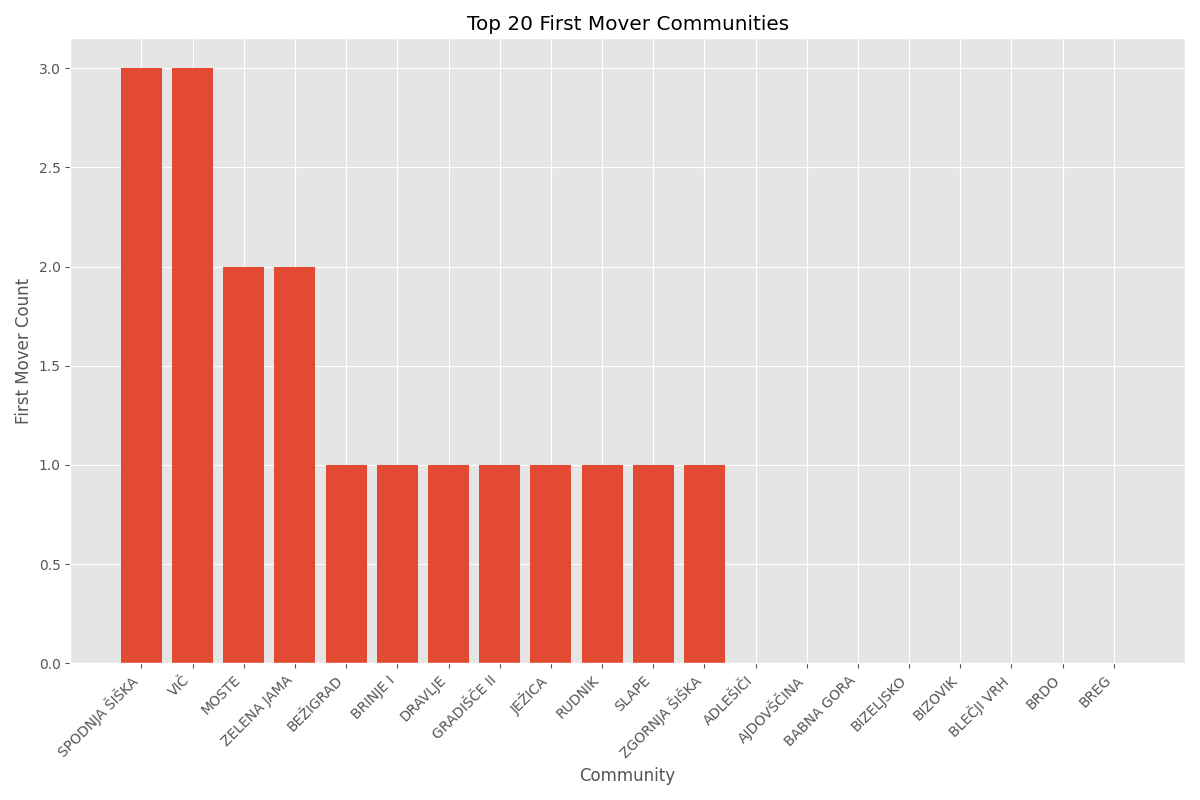
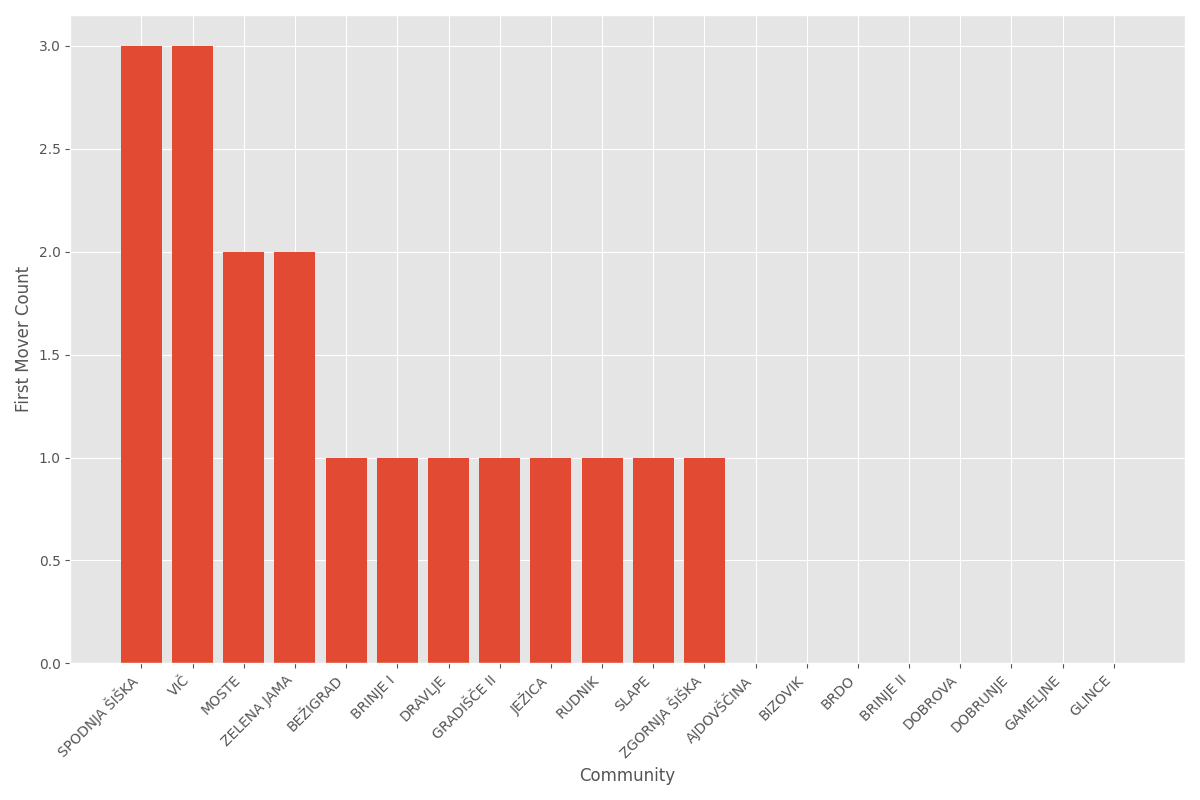
fix

diff --git a/network_analysis.py b/network_analysis.py
@@ -107,197 +107,6 @@ def first_movers(changes):
             count[mover] += 1
     return count
 
-
-def spatial_lag_model(pivot, G):
-    """
-    Fit Spatial Lag Models for each year transition to analyze spatial dependencies
-    """
-    # Convert NetworkX graph to libpysal weights
-    adj_matrix = nx.to_numpy_array(G, nodelist=pivot.index)
-    
-    # Create neighbor dictionary for libpysal
-    neighbors = {}
-    for i in range(len(pivot.index)):
-        neighbors[i] = list(np.where(adj_matrix[i] > 0)[0])
-    
-    # Create weights object
-    w = W(neighbors)
-    w.transform = 'r'  # Row standardization
-    
-    years = sorted(pivot.columns)
-    slm_results = {}
-    
-    for i in range(len(years) - 1):
-        y_current = years[i]
-        y_next = years[i + 1]
-        
-        # Prepare data - remove NaN values
-        data_current = pivot[y_current].fillna(0)
-        data_next = pivot[y_next].fillna(0)
-        
-        # Create aligned arrays - only use observations without NaN in either year
-        valid_mask = ~(pd.isna(pivot[y_current]) | pd.isna(pivot[y_next]))
-        
-        if valid_mask.sum() < 10:  # Need minimum observations
-            print(f"Insufficient valid observations for {y_current}-{y_next}: {valid_mask.sum()}")
-            continue
-            
-        # Get valid data
-        valid_indices = np.where(valid_mask)[0]
-        y_dep = data_next.iloc[valid_indices].values.reshape(-1, 1)
-        x_indep = data_current.iloc[valid_indices].values.reshape(-1, 1)
-        
-        # Create filtered weights matrix for valid observations only
-        w_filtered_neighbors = {}
-        for new_i, orig_i in enumerate(valid_indices):
-            # Find neighbors of original observation that are also in valid set
-            orig_neighbors = neighbors[orig_i]
-            valid_neighbors = []
-            for neighbor in orig_neighbors:
-                if neighbor in valid_indices:
-                    # Map to new index in filtered dataset
-                    new_neighbor_idx = np.where(valid_indices == neighbor)[0]
-                    if len(new_neighbor_idx) > 0:
-                        valid_neighbors.append(new_neighbor_idx[0])
-            w_filtered_neighbors[new_i] = valid_neighbors
-        
-        # Create filtered weights object
-        if len(w_filtered_neighbors) > 0:
-            w_filtered = W(w_filtered_neighbors)
-            w_filtered.transform = 'r'
-        else:
-            print(f"No valid neighbor connections for {y_current}-{y_next}")
-            continue
-        
-        try:
-            # Fit Spatial Lag Model
-            slm = ML_Lag(y_dep, x_indep, w_filtered, name_y=f'Volume_{y_next}', 
-                         name_x=[f'Volume_{y_current}'])
-            
-            slm_results[f'{y_current}-{y_next}'] = {
-                'rho': slm.rho,  # spatial lag coefficient
-                'beta': slm.betas[1][0],  # coefficient for previous year
-                'pseudo_r2': slm.pr2,
-                'log_likelihood': slm.logll,
-                'aic': slm.aic,
-                'n_obs': len(y_dep)
-            }
-            
-        except Exception as e:
-            print(f"SLM fitting failed for {y_current}-{y_next}: {e}")
-            continue
-    
-    return slm_results
-
-
-def plot_slm_results(slm_results, filename=None):
-    """
-    Visualize Spatial Lag Model results
-    """
-    if not slm_results:
-        print("No SLM results to plot")
-        return
-    
-    fig, ((ax1, ax2), (ax3, ax4)) = plt.subplots(2, 2, figsize=(15, 10))
-    
-    transitions = list(slm_results.keys())
-    rhos = [slm_results[t]['rho'] for t in transitions]
-    betas = [slm_results[t]['beta'] for t in transitions]
-    pseudo_r2s = [slm_results[t]['pseudo_r2'] for t in transitions]
-    aics = [slm_results[t]['aic'] for t in transitions]
-    
-    # Plot 1: Spatial lag coefficients (rho)
-    ax1.bar(range(len(transitions)), rhos, color='skyblue', alpha=0.7)
-    ax1.set_title('Spatial Lag Coefficients (ρ)')
-    ax1.set_ylabel('ρ (Spatial Dependence)')
-    ax1.set_xticks(range(len(transitions)))
-    ax1.set_xticklabels(transitions, rotation=45, ha='right')
-    ax1.axhline(y=0, color='red', linestyle='--', alpha=0.5)
-    ax1.grid(True, alpha=0.3)
-    
-    # Plot 2: Autoregressive coefficients (beta)
-    ax2.bar(range(len(transitions)), betas, color='lightcoral', alpha=0.7)
-    ax2.set_title('Autoregressive Coefficients (β)')
-    ax2.set_ylabel('β (Temporal Dependence)')
-    ax2.set_xticks(range(len(transitions)))
-    ax2.set_xticklabels(transitions, rotation=45, ha='right')
-    ax2.axhline(y=0, color='red', linestyle='--', alpha=0.5)
-    ax2.grid(True, alpha=0.3)
-    
-    # Plot 3: Model fit (Pseudo R²)
-    ax3.plot(range(len(transitions)), pseudo_r2s, 'o-', color='green', linewidth=2)
-    ax3.set_title('Model Fit (Pseudo R²)')
-    ax3.set_ylabel('Pseudo R²')
-    ax3.set_xticks(range(len(transitions)))
-    ax3.set_xticklabels(transitions, rotation=45, ha='right')
-    ax3.grid(True, alpha=0.3)
-    ax3.set_ylim(0, max(pseudo_r2s) * 1.1 if pseudo_r2s else 1)
-    
-    # Plot 4: Model comparison (AIC)
-    ax4.plot(range(len(transitions)), aics, 's-', color='orange', linewidth=2)
-    ax4.set_title('Model Selection Criterion (AIC)')
-    ax4.set_ylabel('AIC (lower is better)')
-    ax4.set_xticks(range(len(transitions)))
-    ax4.set_xticklabels(transitions, rotation=45, ha='right')
-    ax4.grid(True, alpha=0.3)
-    
-    plt.tight_layout()
-    
-    if filename:
-        plt.savefig(filename, dpi=300, bbox_inches='tight')
-        plt.close()
-    else:
-        plt.show()
-
-
-def plot_spatial_temporal_dynamics(slm_results, filename=None):
-    """
-    Create a combined plot showing spatial vs temporal effects over time
-    """
-    if not slm_results:
-        print("No SLM results to plot")
-        return
-        
-    transitions = list(slm_results.keys())
-    rhos = [slm_results[t]['rho'] for t in transitions]
-    betas = [slm_results[t]['beta'] for t in transitions]
-    
-    plt.figure(figsize=(12, 8))
-    
-    x = range(len(transitions))
-    width = 0.35
-    
-    plt.bar([i - width/2 for i in x], rhos, width, label='Spatial Effect (ρ)', 
-            color='skyblue', alpha=0.7)
-    plt.bar([i + width/2 for i in x], betas, width, label='Temporal Effect (β)', 
-            color='lightcoral', alpha=0.7)
-    
-    plt.title('Spatial vs Temporal Effects in Real Estate Volume Changes')
-    plt.xlabel('Year Transitions')
-    plt.ylabel('Coefficient Values')
-    plt.xticks(x, transitions, rotation=45, ha='right')
-    plt.legend()
-    plt.axhline(y=0, color='black', linestyle='-', alpha=0.3)
-    plt.grid(True, alpha=0.3)
-    
-    # Add text annotations for significant coefficients
-    for i, (rho, beta) in enumerate(zip(rhos, betas)):
-        if abs(rho) > 0.1:  # Highlight significant spatial effects
-            plt.annotate(f'{rho:.3f}', (i - width/2, rho), 
-                        textcoords="offset points", xytext=(0,10), ha='center')
-        if abs(beta) > 0.1:  # Highlight significant temporal effects
-            plt.annotate(f'{beta:.3f}', (i + width/2, beta), 
-                        textcoords="offset points", xytext=(0,10), ha='center')
-    
-    plt.tight_layout()
-    
-    if filename:
-        plt.savefig(filename, dpi=300, bbox_inches='tight')
-        plt.close()
-    else:
-        plt.show()
-
-
 def plot_morans_i(results, filename=None, alpha=0.05):
     plt.figure(figsize=(10, 6))
     years = list(results.keys())
@@ -312,7 +121,7 @@ def plot_morans_i(results, filename=None, alpha=0.05):
     plt.axhline(y=0, color='gray', linestyle='--')
     plt.xlabel('Year')
     plt.ylabel("Moran's I")
-    plt.xticks(rotation=45)
+    plt.xticks([2007 + a + 1 for a in range(2025 - 2007)], rotation=45)
     plt.tight_layout()
     if filename:
         plt.savefig(filename)
@@ -326,10 +135,9 @@ def plot_diffusion_errors(errors, filename=None):
     years = list(errors.keys())
     values = list(errors.values())
     plt.plot(years, values, 's-', linewidth=2)
-    plt.title("Diffusion Model Prediction Error")
     plt.xlabel('Year')
     plt.ylabel("Mean Squared Error (MSE)")
-    plt.xticks(rotation=45)
+    plt.xticks([2007 + a + 1 for a in range(2025 - 2007)], rotation=45)
     plt.tight_layout()
     if filename:
         plt.savefig(filename)
@@ -342,8 +150,8 @@ def plot_leader_counts(counts, filename=None):
     top20 = sorted(counts.items(), key=lambda x: x[1], reverse=True)[:20]
     communities, values = zip(*top20)
     plt.figure(figsize=(12, 8))
-    plt.bar(communities, values, color='blue')
-    plt.title("Top 20 Communities by Neighborhood Leadership Count")
+    plt.bar(communities, values)
+    #plt.title("Top 20 Communities by Neighborhood Leadership Count")
     plt.xlabel('Community')
     plt.ylabel('Leadership Count')
     plt.xticks(rotation=45, ha='right')
@@ -360,7 +168,7 @@ def plot_first_movers(counts, filename=None):
     communities, values = zip(*top20)
     plt.figure(figsize=(12, 8))
     plt.bar(communities, values)
-    plt.title("Top 20 First Mover Communities")
+    #plt.title("Top 20 First Mover Communities")
     plt.xlabel('Community')
     plt.ylabel('First Mover Count')
     plt.xticks(rotation=45, ha='right')
@@ -371,11 +179,34 @@ def plot_first_movers(counts, filename=None):
     else:
         plt.show()
 
+def plot_cadastral_network(G):
+    degree_dict = dict(G.degree())
+    scale_factor = 50
+    
+    node_sizes = [degree_dict[node] * scale_factor for node in G.nodes()] 
+    plt.figure(figsize=(12, 12))
+    pos = nx.spring_layout(G, seed=42, k=0.1)
+    nx.draw_networkx_edges(G, pos, width=0.5, edge_color='gray', alpha=0.5)
+    nx.draw_networkx_nodes(G, pos, node_size=node_sizes, node_color='skyblue', edgecolors='black', linewidths=0.2, alpha=0.8)
+    nx.draw_networkx_labels(G, pos, font_size=6, font_color='black', alpha=0.7)
+    
+    #plt.title("Cadastral Adjacency Network (Node size ∝ Degree)", fontsize=14)
+    plt.axis('off')
+    plt.tight_layout()
+
+    plt.savefig(OUTPUT_DIR / "cadastral_network.png", dpi=300, bbox_inches='tight')
+    plt.close()
 
 def main():
     pivot = load_pivot()
     G = load_graph()
+    isolated = list(nx.isolates(G))
+    if isolated:
+        G.remove_nodes_from(isolated)
+        pivot = pivot.drop(index=isolated)
     changes = compute_changes(pivot)
+
+    plot_cadastral_network(G)
 
     # Moran's I
     morans_results = {}
